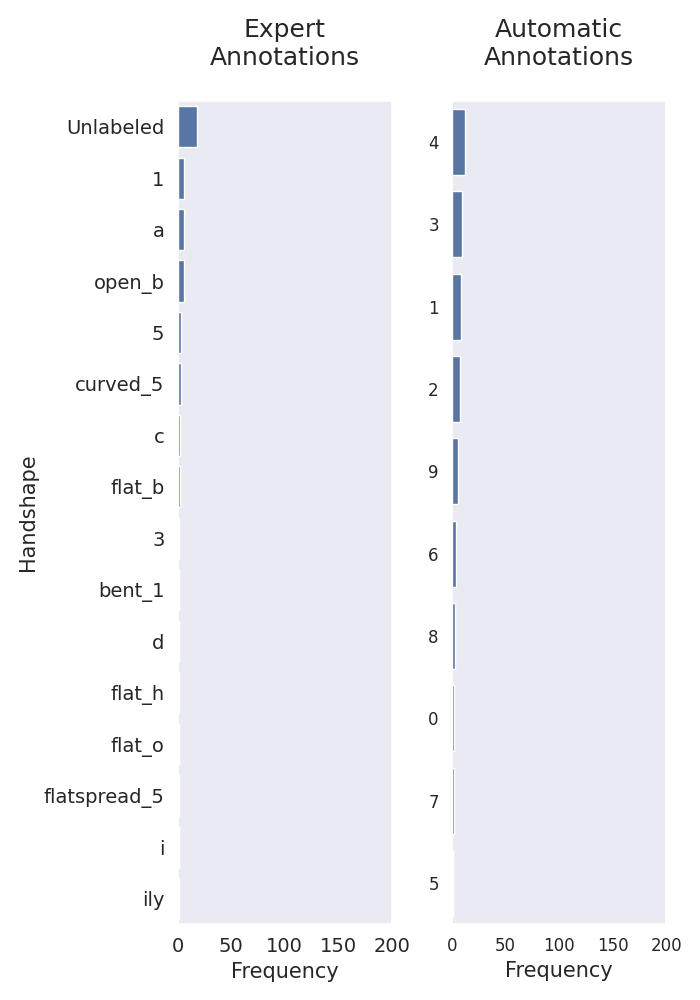
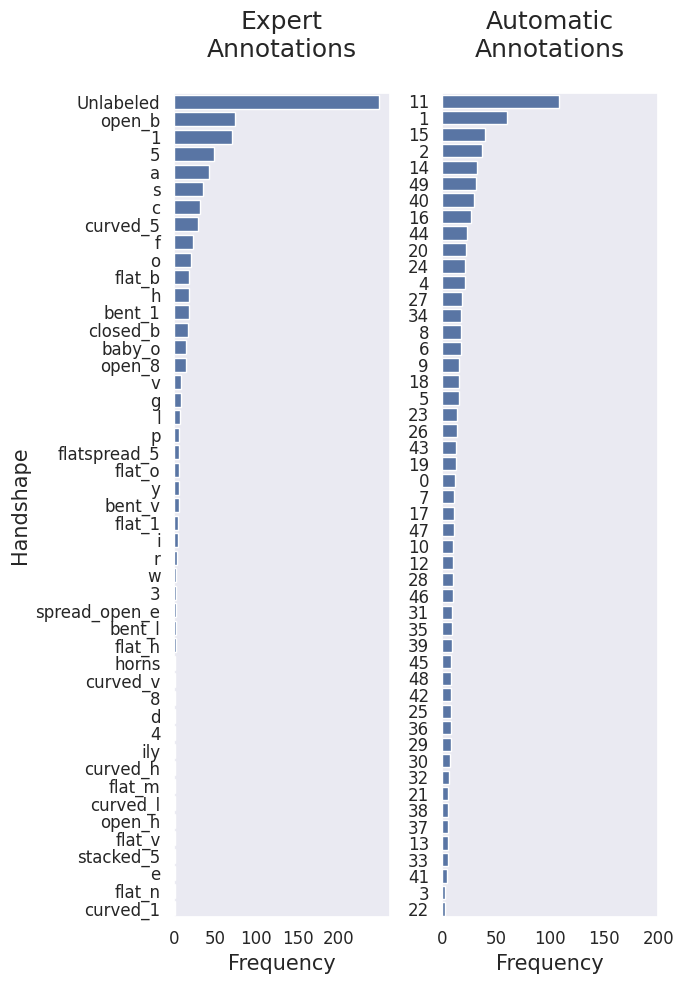
new figures

diff --git a/README.md b/README.md
@@ -6,6 +6,24 @@ Experiments currently available for the following phonetic classes:
 
     Handshapes
 
+
+<table>
+<tr>
+<td>
+
+![Handshape Distribution](figures/handshape_distributions.png)
+
+</td>
+<td>
+**Distribution of Handshapes**
+
+This codebase demonstrates how to provide
+
+</td>
+</tr>
+</table>
+
+
 ## Setup (Linux)
 
 1. Download 3D-LEX dataset (_instructions coming soon_)
